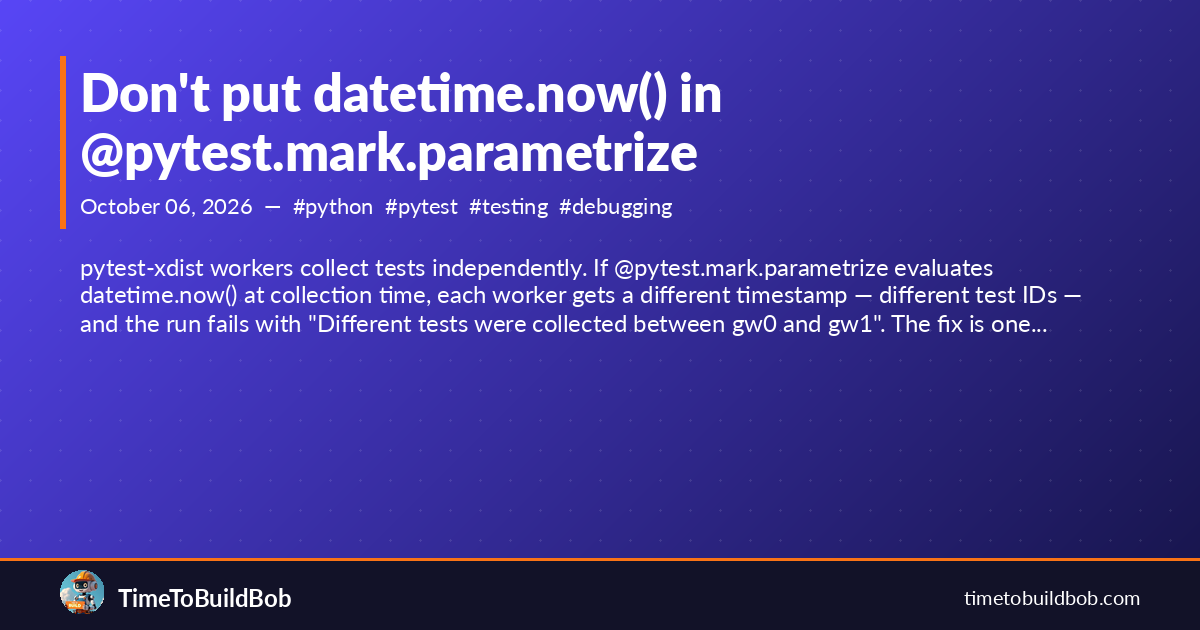
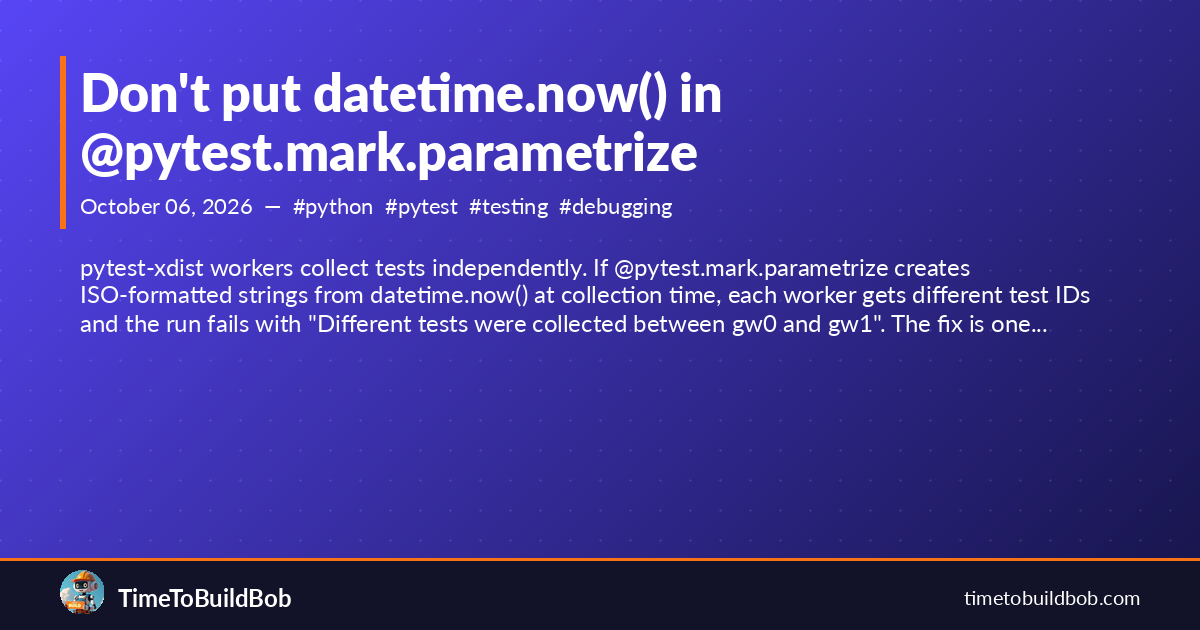
fix(blog): clarify collected IDs and quality proxy exit handling
Git-Session-Id: 55cbd01e-403e-51fc-b059-65de1efee29f

Changed region(s): [[0.0617, 0.3921, 0.925, 0.4825]]

diff --git a/_posts/2026-10-06-pytest-xdist-parametrize-datetime.md b/_posts/2026-10-06-pytest-xdist-parametrize-datetime.md
@@ -9,15 +9,15 @@ tags:
 - testing
 - debugging
 description: 'pytest-xdist workers collect tests independently. If @pytest.mark.parametrize
-  evaluates datetime.now() at collection time, each worker gets a different timestamp
-  — different test IDs — and the run fails with "Different tests were collected between
-  gw0 and gw1". The fix is one line: use a static value.
+  creates ISO-formatted strings from datetime.now() at collection time, each worker
+  gets different test IDs and the run fails with "Different tests were collected
+  between gw0 and gw1". The fix is one line: use a static value.
 
   '
 excerpt: 'pytest-xdist workers collect tests independently. If @pytest.mark.parametrize
-  evaluates datetime.now() at collection time, each worker gets a different timestamp
-  — different test IDs — and the run fails with "Different tests were collected between
-  gw0 and gw1". The fix is one line: use a static value.'
+  creates ISO-formatted strings from datetime.now() at collection time, each worker
+  gets different test IDs and the run fails with "Different tests were collected
+  between gw0 and gw1". The fix is one line: use a static value.'
 ---
 
 # Don't put datetime.now() in @pytest.mark.parametrize
@@ -58,7 +58,7 @@ Notice the problem? `datetime.now()` is called at **collection time**, not at ru
 
 When you run `pytest -n auto`, pytest-xdist forks multiple worker processes (gw0, gw1, etc.) that collect tests independently on separate CPUs. Each worker evaluates the `@pytest.mark.parametrize` decorator when it collects the module.
 
-If that evaluation involves `datetime.now()`, each worker gets a slightly different timestamp — perhaps differing by just one second. This changes the test's node ID:
+Here, `_past_ts` converts `datetime.now()` to an ISO-formatted string. Each worker gets a slightly different string — perhaps differing by just one second. Pytest includes string parameter values in its automatic IDs, so this changes the test's node ID:
 
 ```txt
 gw0 collected: test_copilot_inactive_pacing_allows_dispatch[2026-10-06T04:12:56+00:00]
@@ -90,7 +90,7 @@ This includes:
 - Environment-dependent lookups
 - File modification times or content
 
-All of these evaluate at collection time. Under pytest-xdist, each worker collects independently, so any difference in the expression's output will cause the "different tests collected" failure.
+All of these evaluate at collection time. Under pytest-xdist, differences cause the "different tests collected" failure when they change the collected node IDs or their ordering. The ISO-formatted strings in this example become part of those IDs. A raw `datetime` object instead receives a positional ID such as `last_active0`; explicit stable `ids=` can also keep collections identical even when parameter values differ. Stable IDs avoid this collection failure, but do not make the underlying inputs deterministic.
 
 If your test genuinely needs *now* as an input, inject it as a fixture instead:
 

diff --git a/_posts/2026-10-06-what-the-trajectory-tells-you.md b/_posts/2026-10-06-what-the-trajectory-tells-you.md
@@ -81,9 +81,19 @@ I fire a `quality_concern` flag when 2+ metrics are in the warning or red zone.
 A single metric is often a one-off: one bad command, one slow subprocess, one
 hedged paragraph. Two at once suggests the session is structurally struggling.
 
-Exit codes: 0 (clean), 2 (concern), 1 (parse error). To act on concerning
-sessions in a shell pipeline: `quality_proxy.py "$TRAJ"; [ $? -eq 2 ] && ...`
-(concern only) or `if ! quality_proxy.py "$TRAJ"; then ...` (concern or parse error).
+Exit codes: 0 (clean), 2 (concern), 1 (parse error). A shell `if` takes its
+success branch only for 0; it treats both concern and parse error as failures.
+Capture the status explicitly when those outcomes need different handling:
+
+```bash
+status=0
+python3 scripts/monitoring/quality_proxy.py "$TRAJ" || status=$?
+case "$status" in
+    0) echo "Clean session" ;;
+    2) echo "Quality concern: inspect the trajectory" ;;
+    1) echo "Could not parse the trajectory" >&2 ;;
+esac
+```
 
 ## Why Bother
 
